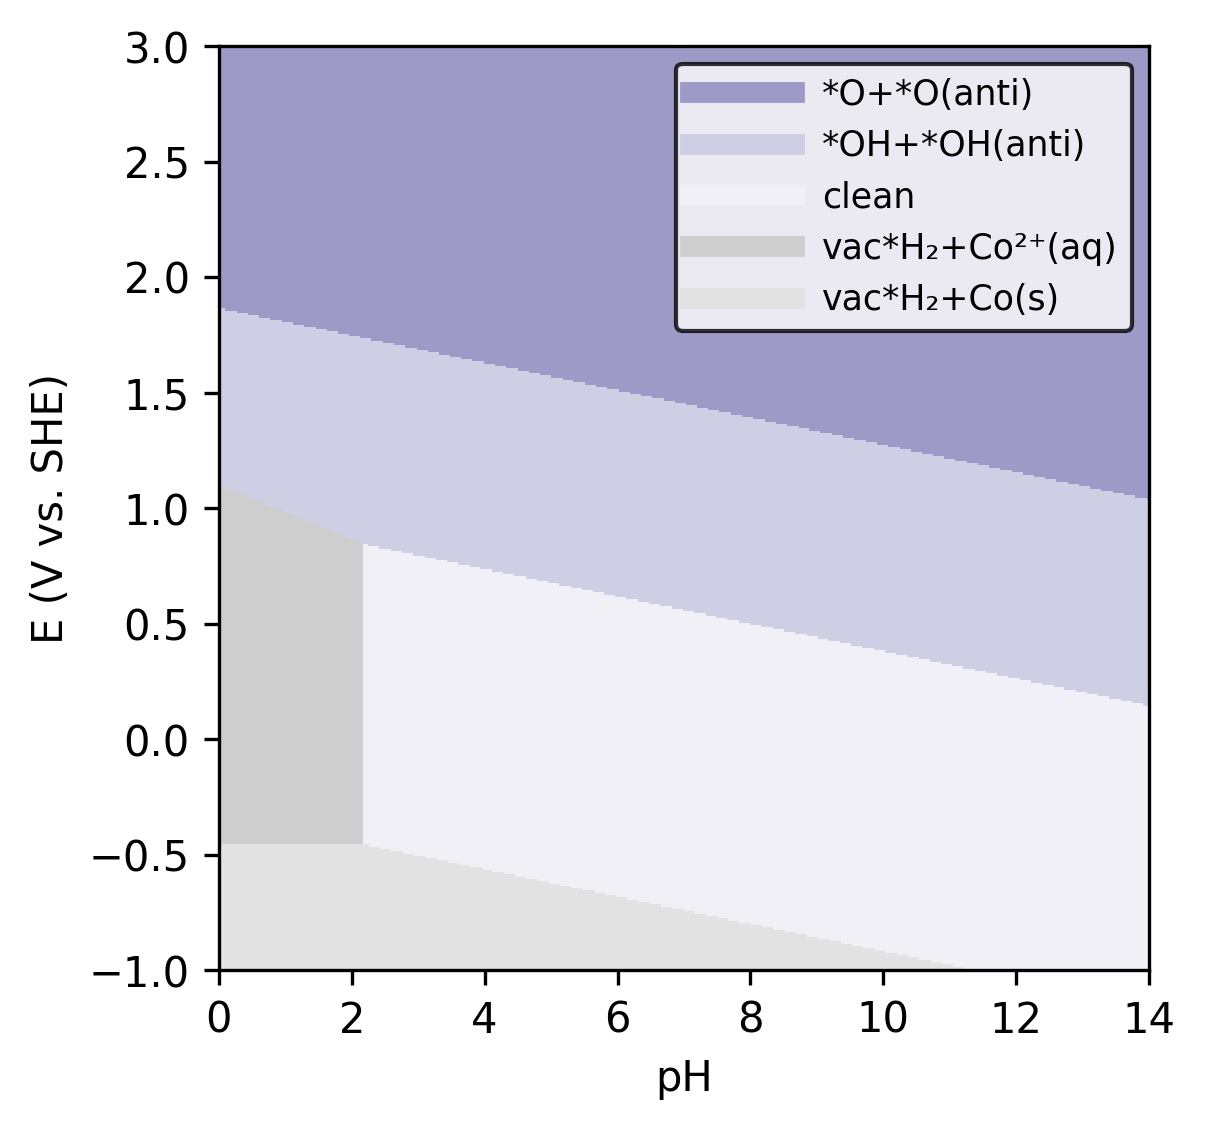
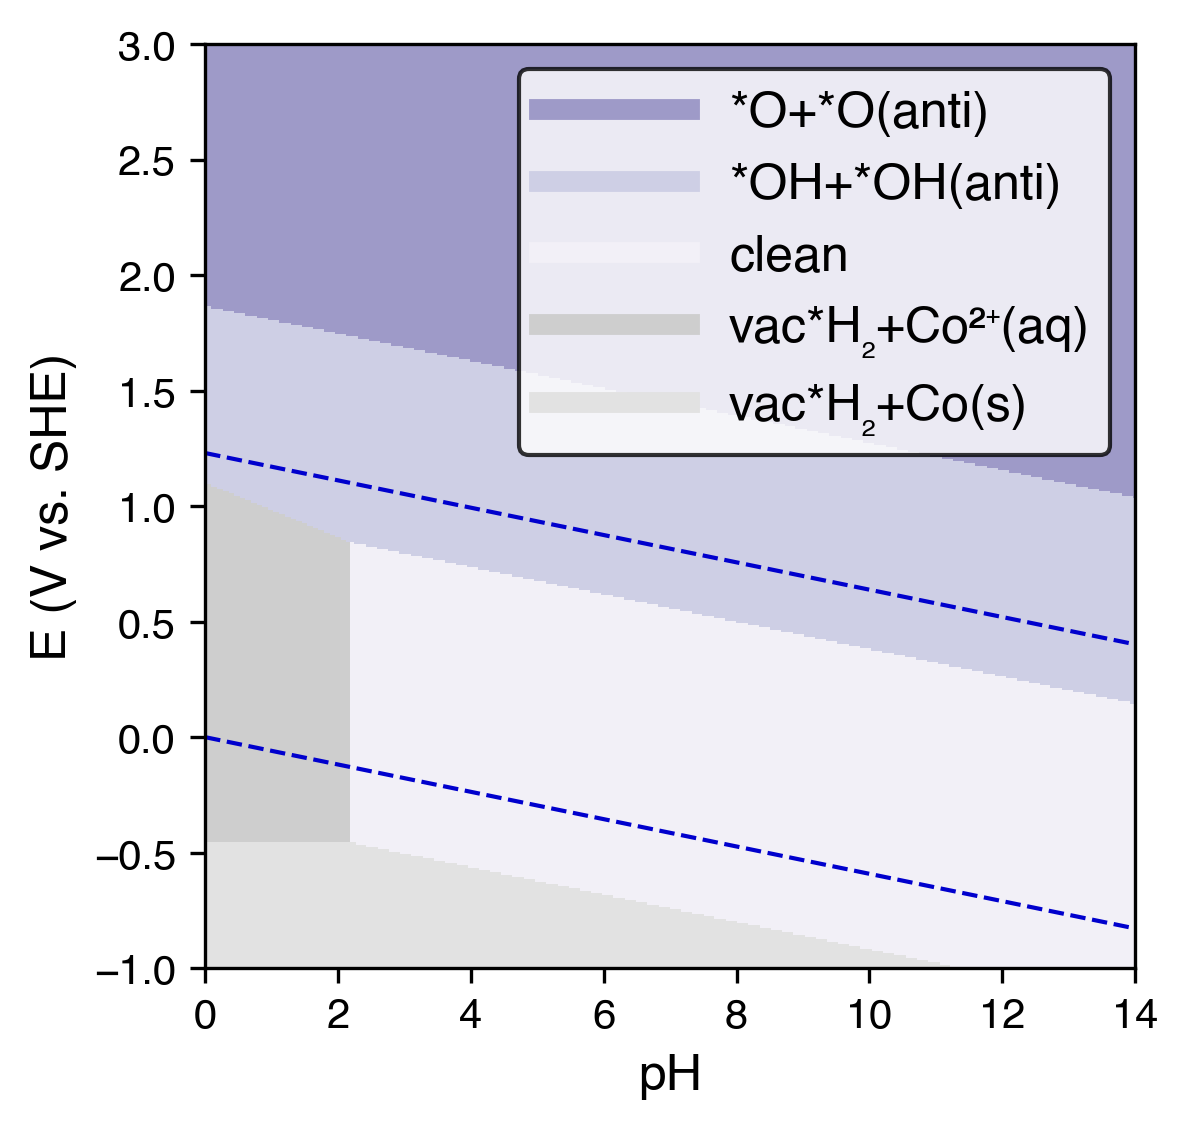
.

diff --git a/pourbaix.py b/pourbaix.py
@@ -933,6 +933,12 @@ def main():
                     plt.plot(pHrange, 1.23-pHrange*const, '--', lw=1, color='mediumblue')
                 if args.HER:
                     plt.plot(pHrange, 0-pHrange*const, '--', lw=1, color='mediumblue')
+                # Plot two lines and fill between them
+                line1 = 0.780-pHrange*const
+                line2 = 0.920-pHrange*const
+                plt.plot(pHrange, line1, '-', lw=1, color='red')
+                plt.plot(pHrange, line2, '-', lw=1, color='red')
+                plt.fill_between(pHrange, line1, line2, alpha=0.3, color='red')
 
                 if args.legend_in:
                     plt.legend(fontsize=12, ncol=1, handlelength=3, edgecolor='black', loc='upper right')
@@ -1338,6 +1344,12 @@ def main():
         plt.plot(pHrange, 1.23-pHrange*const, '--', lw=1, color='mediumblue')
     if args.HER:
         plt.plot(pHrange, 0-pHrange*const, '--', lw=1, color='mediumblue')
+    # Plot two lines and fill between them
+    line1 = 0.780-pHrange*const
+    line2 = 0.920-pHrange*const
+    plt.plot(pHrange, line1, '--', lw=1, color='red')
+    plt.plot(pHrange, line2, '--', lw=1, color='red')
+    plt.fill_between(pHrange, line1, line2, alpha=0.3, color='red')
 
     if args.legend_in:
         plt.legend(fontsize=12, ncol=1, handlelength=3, edgecolor='black', loc='upper right')
@@ -1557,13 +1569,13 @@ def main():
     ax2.set_xlim(Umin, Umax)
     # Generate legend (1D)
     if args.legend_in:
-        ax2.legend(fontsize=12, ncol=1, handlelength=3, edgecolor='black', loc='upper right')
+        ax2.legend(fontsize=10, ncol=1, handlelength=3, edgecolor='black', loc='upper right')
     elif args.legend_out:
         ax2.legend(bbox_to_anchor=(1.02, 1), loc=2, borderaxespad=0., 
-                fontsize=12, ncol=1, handlelength=3, edgecolor='black')
+                fontsize=10, ncol=1, handlelength=3, edgecolor='black')
     elif args.legend_up:
         ax2.legend(bbox_to_anchor=(0.5, 1.02), loc='lower center', borderaxespad=0., 
-                fontsize=12, ncol=3, handlelength=3, edgecolor='black')
+                fontsize=10, ncol=3, handlelength=3, edgecolor='black')
     plt.savefig(f'{png_name}_pH{target_pH}{suffix}.png', dpi=300, bbox_inches='tight', transparent=True)
     print(f"Pourbaix diagram saved as {png_name}_pH{target_pH}{suffix}.png")
     if args.show_fig:
